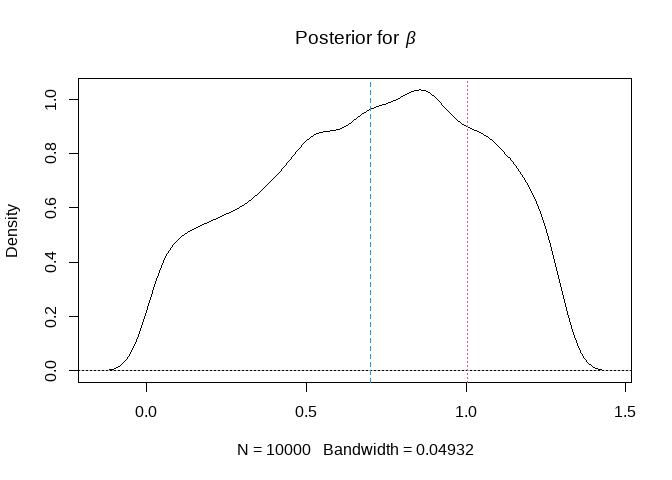
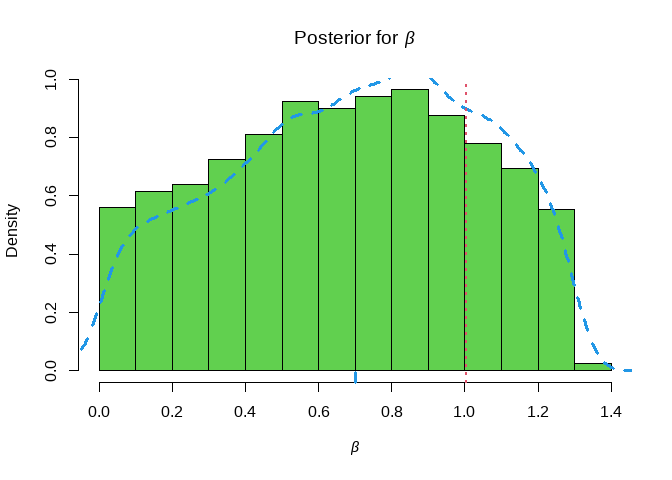
version 0.7-1

diff --git a/inst/doc/mcmcPottsNoData.html b/inst/doc/mcmcPottsNoData.html
@@ -12,7 +12,7 @@
 
 <meta name="author" content="Matt Moores" />
 
-<meta name="date" content="2025-10-10" />
+<meta name="date" content="2026-04-29" />
 
 <title>mcmcPottsNoData</title>
 
@@ -50,8 +50,9 @@ overflow: visible;
 }
 </style>
 <style type="text/css" data-origin="pandoc">
+html { -webkit-text-size-adjust: 100%; }
 pre > code.sourceCode { white-space: pre; position: relative; }
-pre > code.sourceCode > span { line-height: 1.25; }
+pre > code.sourceCode > span { display: inline-block; line-height: 1.25; }
 pre > code.sourceCode > span:empty { height: 1.2em; }
 .sourceCode { overflow: visible; }
 code.sourceCode > span { color: inherit; text-decoration: inherit; }
@@ -62,7 +63,7 @@ div.sourceCode { overflow: auto; }
 }
 @media print {
 pre > code.sourceCode { white-space: pre-wrap; }
-pre > code.sourceCode > span { display: inline-block; text-indent: -5em; padding-left: 5em; }
+pre > code.sourceCode > span { text-indent: -5em; padding-left: 5em; }
 }
 pre.numberSource code
 { counter-reset: source-line 0; }
@@ -340,7 +341,7 @@ code > span.er { color: #a61717; background-color: #e3d2d2; }
 
 <h1 class="title toc-ignore">mcmcPottsNoData</h1>
 <h4 class="author">Matt Moores</h4>
-<h4 class="date">2025-10-10</h4>
+<h4 class="date">2026-04-29</h4>
 
 
 
@@ -479,7 +480,7 @@ updating with <span class="math inline">\(\beta=0\)</span>:</p>
 <span id="cb33-5"><a href="#cb33-5" tabindex="-1"></a>edges <span class="ot">&lt;-</span> <span class="fu">getEdges</span>(mask, <span class="fu">c</span>(<span class="dv">2</span>,<span class="dv">2</span>,<span class="dv">0</span>,<span class="dv">0</span>))</span>
 <span id="cb33-6"><a href="#cb33-6" tabindex="-1"></a><span class="fu">system.time</span>(res2.Gibbs <span class="ot">&lt;-</span> <span class="fu">mcmcPottsNoData</span>(<span class="at">beta=</span><span class="dv">0</span>, <span class="at">k=</span><span class="dv">3</span>, neigh, block, <span class="at">niter=</span><span class="dv">100</span>, <span class="at">random=</span><span class="cn">FALSE</span>))</span></code></pre></div>
 <pre><code>##    user  system elapsed 
-##    0.23    0.05    0.10</code></pre>
+##    0.47    0.05    0.20</code></pre>
 <div class="sourceCode" id="cb35"><pre class="sourceCode r"><code class="sourceCode r"><span id="cb35-1"><a href="#cb35-1" tabindex="-1"></a><span class="fu">ts.plot</span>(res2.Gibbs<span class="sc">$</span>sum, <span class="at">ylim=</span><span class="fu">range</span>(<span class="fu">c</span>(res2.Gibbs<span class="sc">$</span>sum, <span class="fu">nrow</span>(edges))))</span>
 <span id="cb35-2"><a href="#cb35-2" tabindex="-1"></a><span class="fu">abline</span>(<span class="at">h=</span><span class="fu">nrow</span>(edges), <span class="at">col=</span><span class="dv">2</span>, <span class="at">lty=</span><span class="dv">3</span>)</span>
 <span id="cb35-3"><a href="#cb35-3" tabindex="-1"></a><span class="fu">abline</span>(<span class="at">h=</span><span class="fu">nrow</span>(edges)<span class="sc">/</span><span class="dv">3</span>, <span class="at">col=</span><span class="dv">4</span>, <span class="at">lty=</span><span class="dv">3</span>)</span></code></pre></div>
@@ -502,7 +503,7 @@ distribution with mean 10333.33 and variance 6888.89:</p>
 <p>Now for Swendsen-Wang:</p>
 <div class="sourceCode" id="cb41"><pre class="sourceCode r"><code class="sourceCode r"><span id="cb41-1"><a href="#cb41-1" tabindex="-1"></a><span class="fu">system.time</span>(res2.SW <span class="ot">&lt;-</span> <span class="fu">swNoData</span>(<span class="at">beta=</span><span class="dv">0</span>, <span class="at">k=</span><span class="dv">3</span>, neigh, block, <span class="at">niter=</span><span class="dv">100</span>, <span class="at">random=</span><span class="cn">FALSE</span>))</span></code></pre></div>
 <pre><code>##    user  system elapsed 
-##    0.11    0.02    0.14</code></pre>
+##    0.07    0.00    0.08</code></pre>
 <div class="sourceCode" id="cb43"><pre class="sourceCode r"><code class="sourceCode r"><span id="cb43-1"><a href="#cb43-1" tabindex="-1"></a><span class="fu">ts.plot</span>(res2.SW<span class="sc">$</span>sum, <span class="at">ylim=</span><span class="fu">range</span>(<span class="fu">c</span>(res2.SW<span class="sc">$</span>sum, <span class="fu">nrow</span>(edges))))</span>
 <span id="cb43-2"><a href="#cb43-2" tabindex="-1"></a><span class="fu">abline</span>(<span class="at">h=</span><span class="fu">nrow</span>(edges), <span class="at">col=</span><span class="dv">2</span>, <span class="at">lty=</span><span class="dv">3</span>)</span>
 <span id="cb43-3"><a href="#cb43-3" tabindex="-1"></a><span class="fu">abline</span>(<span class="at">h=</span><span class="fu">nrow</span>(edges)<span class="sc">/</span><span class="dv">3</span>, <span class="at">col=</span><span class="dv">4</span>, <span class="at">lty=</span><span class="dv">3</span>)</span></code></pre></div>

diff --git a/inst/doc/mcmcPotts.html b/inst/doc/mcmcPotts.html
@@ -12,7 +12,7 @@
 
 <meta name="author" content="Matt Moores" />
 
-<meta name="date" content="2025-10-10" />
+<meta name="date" content="2026-04-29" />
 
 <title>mcmcPotts</title>
 
@@ -50,8 +50,9 @@ overflow: visible;
 }
 </style>
 <style type="text/css" data-origin="pandoc">
+html { -webkit-text-size-adjust: 100%; }
 pre > code.sourceCode { white-space: pre; position: relative; }
-pre > code.sourceCode > span { line-height: 1.25; }
+pre > code.sourceCode > span { display: inline-block; line-height: 1.25; }
 pre > code.sourceCode > span:empty { height: 1.2em; }
 .sourceCode { overflow: visible; }
 code.sourceCode > span { color: inherit; text-decoration: inherit; }
@@ -62,7 +63,7 @@ div.sourceCode { overflow: auto; }
 }
 @media print {
 pre > code.sourceCode { white-space: pre-wrap; }
-pre > code.sourceCode > span { display: inline-block; text-indent: -5em; padding-left: 5em; }
+pre > code.sourceCode > span { text-indent: -5em; padding-left: 5em; }
 }
 pre.numberSource code
 { counter-reset: source-line 0; }
@@ -340,7 +341,7 @@ code > span.er { color: #a61717; background-color: #e3d2d2; }
 
 <h1 class="title toc-ignore">mcmcPotts</h1>
 <h4 class="author">Matt Moores</h4>
-<h4 class="date">2025-10-10</h4>
+<h4 class="date">2026-04-29</h4>
 
 
 

diff --git a/inst/doc/Background.html b/inst/doc/Background.html
@@ -12,7 +12,7 @@
 
 <meta name="author" content="Matt Moores, Anthony N. Pettitt and Kerrie Mengersen" />
 
-<meta name="date" content="2025-10-10" />
+<meta name="date" content="2026-04-29" />
 
 <title>bayesImageS: An R Package for Bayesian Image Segmentation using a Hidden Potts Model</title>
 
@@ -241,7 +241,7 @@ code > span.er { color: #a61717; background-color: #e3d2d2; }
 Image Segmentation using a Hidden Potts Model</h1>
 <h4 class="author">Matt Moores, Anthony N. Pettitt and Kerrie
 Mengersen</h4>
-<h4 class="date">2025-10-10</h4>
+<h4 class="date">2026-04-29</h4>
 
 
 

diff --git a/README.md b/README.md
@@ -8,7 +8,7 @@ version](https://www.r-pkg.org/badges/version/bayesImageS)](https://cran.r-proje
 [![rstudio mirror
 downloads](https://cranlogs.r-pkg.org/badges/grand-total/bayesImageS)](https://github.com/r-hub/cranlogs.app)
 
-<img src="inst/image/README-logo.png" width="100px" height="100px" style="display: block; margin: auto 0 auto auto;" />
+<img src="inst/image/README-logo.png" alt="" width="100px" height="100px" style="display: block; margin: auto 0 auto auto;" />
 
 `bayesImageS` implements algorithms for segmentation of 2D and 3D
 images, such as computed tomography (CT) and satellite remote sensing.
@@ -85,22 +85,22 @@ Image segmentation using ABC-SMC:
 
 ``` r
 res.smc <- smcPotts(y, neigh, blocks, priors=priors)
-#> Initialization took 66sec
+#> Initialization took 39sec
 #> Iteration 1
 #> previous epsilon 7 and ESS 10000 (target: 9500)
 #> Took 0sec to update epsilon=2.625 (ESS=9505.29)
-#> Took 58sec for 8918 RWMH updates (bw=0.497509)
+#> Took 49sec for 8918 RWMH updates (bw=0.497509)
 #> Took 4sec for 10000 iterations to calculate S(z)=7
 #> Iteration 2
 #> previous epsilon 2.625 and ESS 9505.29 (target: 9030.02)
-#> Took 7sec to update epsilon=1 (ESS=7970.86)
-#> Took 55sec for 7671 RWMH updates (bw=0.466951)
+#> Took 5sec to update epsilon=1 (ESS=7970.86)
+#> Took 36sec for 7671 RWMH updates (bw=0.466951)
 #> Took 4sec for 10000 iterations to calculate S(z)=6
 #> Iteration 3
 #> previous epsilon 1 and ESS 7970.86 (target: 7572.32)
-#> Took 7sec to update epsilon=4.66632e-302 (ESS=7949.67)
-#> Took 55sec for 7968 RWMH updates (bw=0.466673)
-#> Took 4sec for 10000 iterations to calculate S(z)=7
+#> Took 5sec to update epsilon=4.66632e-302 (ESS=7949.67)
+#> Took 71sec for 7968 RWMH updates (bw=0.466673)
+#> Took 14sec for 10000 iterations to calculate S(z)=7
 # pixel classifications
 pred <- res.smc$alloc/rowSums(res.smc$alloc)
 predMx <- as.raster(array(pred, dim=c(nrow(mask),ncol(mask),3)))
@@ -124,10 +124,11 @@ all.equal(seg, l)
 # filter weights to remove Ninf, NaN
 w <- res.smc$wt
 w[is.na(w)] <- 0
-plot(density(res.smc$beta, weights=w),main=expression(paste("Posterior for ",beta)))
-abline(h=0,lty=3)
-abline(v=beta,lty=2,col=4)
-abline(v=log(1 + sqrt(k)),lty=3,col=2) # critical point
+hist(res.smc$beta, main=expression(paste("Posterior for ",beta)),
+     freq=FALSE, col=3, xlab=expression(beta), breaks=15)
+lines(density(res.smc$beta, weights=w), lwd=3, lty=2, col=4)
+abline(v=log(1 + sqrt(k)),lty=3,col=2,lwd=2) # critical point
+rug(beta, col=4, lwd=3)
 ```
 
 ![](inst/image/README-unnamed-chunk-8-1.png)<!-- -->
@@ -136,7 +137,7 @@ abline(v=log(1 + sqrt(k)),lty=3,col=2) # critical point
 
 library(coda)
 res.res <- testResample(res.smc$beta, w, cbind(res.smc$mu, res.smc$sigma))
-#> Took 1sec to resample 10000 particles
+#> Took 5sec to resample 10000 particles
 res.coda <- mcmc(cbind(res.res$pseudo, res.res$beta))
 varnames(res.coda) <- c(paste("mu",1:k), paste("sd",1:k), "beta")
 HPDinterval(res.coda)

diff --git a/NEWS.md b/NEWS.md
@@ -1,3 +1,8 @@
+# bayesImageS 0.7-1
+
+* removed obsolete Ldflags from Makevars.win
+* updated README
+
 # bayesImageS 0.7-0
 
 ## New features
@@ -10,7 +15,7 @@
 * issue BAYES-2 WARN: 'arma::is_finite<double>' is deprecated
 * issue BAYES-4 roxygen2 requires "Encoding: UTF-8"
 * issue BAYES-5 roxygen2 @docType "package"` is deprecated
-* issue BAYES-6 removed vignette swNoData due to segfault on macos
+* issue BAYES-6 removed vignette swNoData due to segfault on macOS
 
 # bayesImageS 0.6-1
 